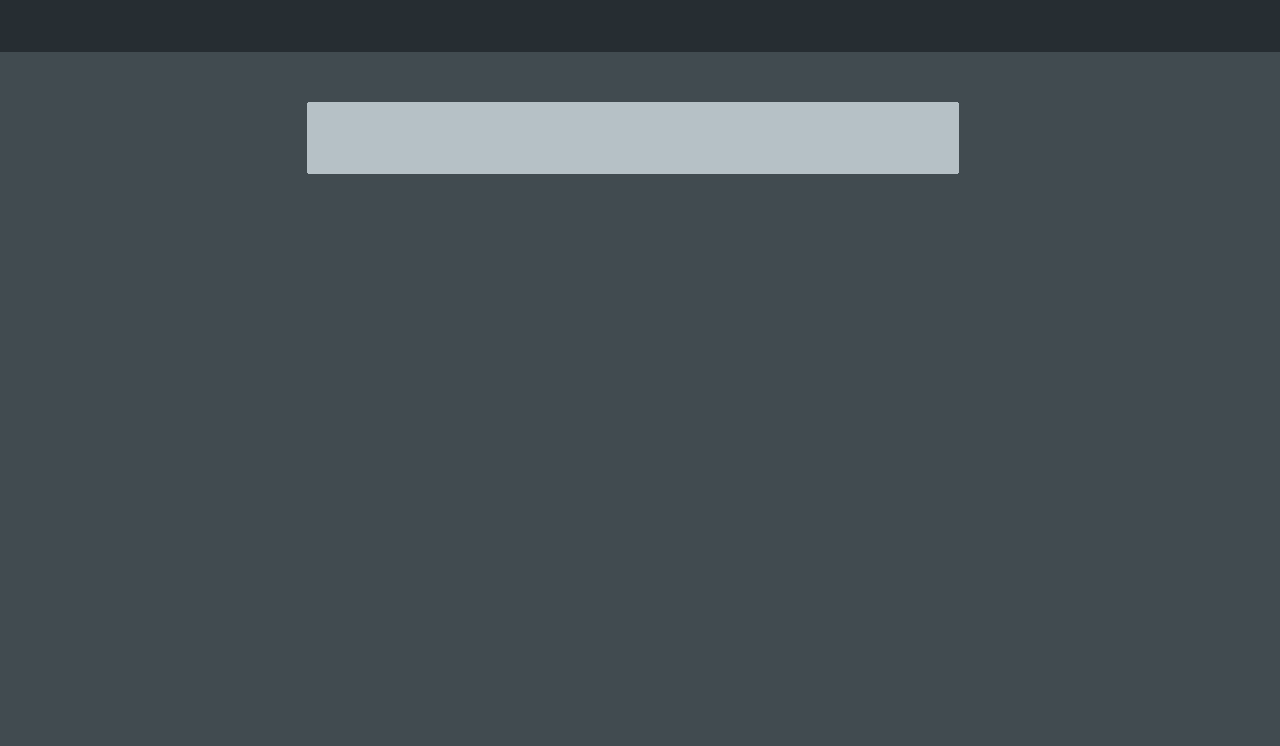
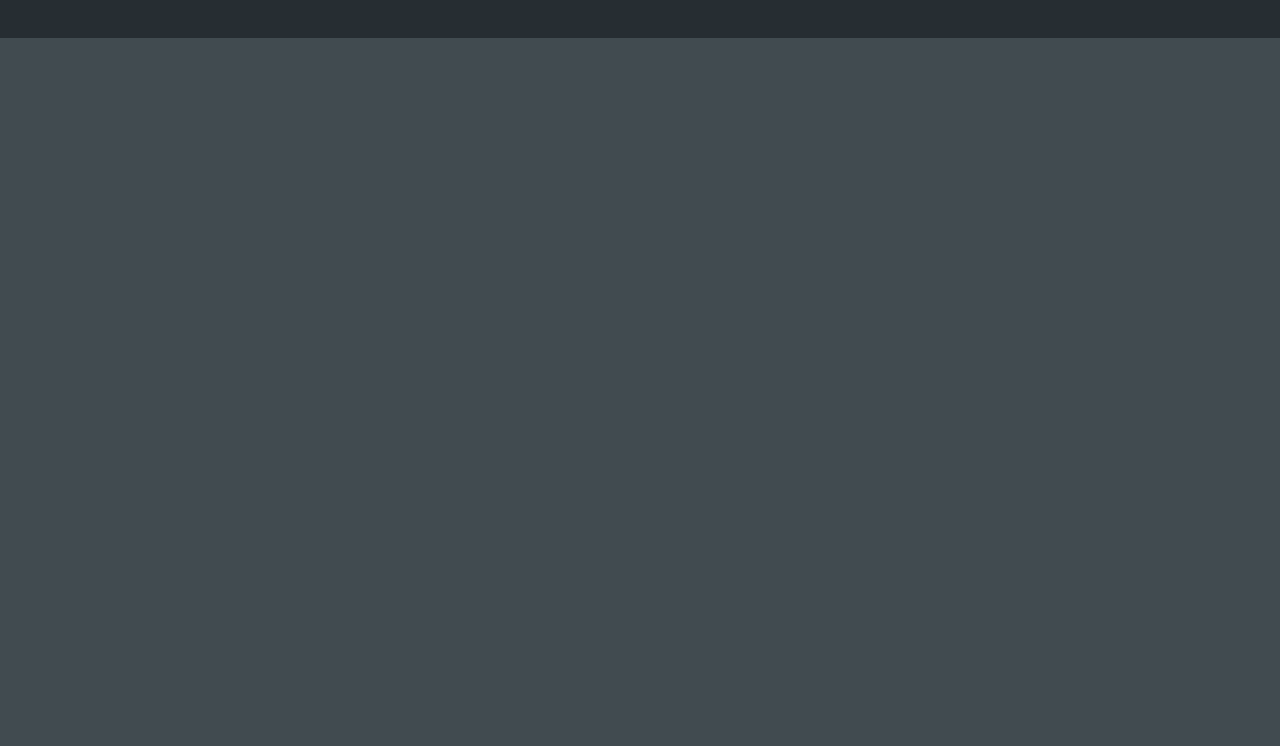
Get MIDI Channel working

Changed region(s): [[0.2188, 0.1233, 0.75, 0.2466], [0.0, 0.0308, 1.0, 0.0925]]

diff --git a/Juce/ScopeSync/Components/BCMComboBox.cpp b/Juce/ScopeSync/Components/BCMComboBox.cpp
@@ -27,10 +27,12 @@
  */
 
 #include "BCMComboBox.h"
+#include "../Core/ScopeSync.h"
 #include "../Core/ScopeSyncGUI.h"
 #include "../Properties/ComboBoxProperties.h"
 #include "../Core/Global.h"
 #include "../Parameters/BCMParameter.h"
+#include "../Parameters/BCMParameterController.h"
 
 BCMComboBox::BCMComboBox(String& name, ScopeSyncGUI& owner)
     : ComboBox(name), BCMParameterWidget(owner)
@@ -53,10 +55,13 @@ void BCMComboBox::applyProperties(ComboBoxProperties& props)
     setJustificationType(Justification(props.justificationFlags));
     setTextWhenNothingSelected(props.nothingSelectedText);
     setTextWhenNoChoicesAvailable(props.noChoicesText);
-    
-    String tooltip  = props.tooltip;
-    
-    setupMapping(Ids::comboBox, getName(), props.mappingParentType, props.mappingParent);
+
+	String tooltip = props.tooltip;
+
+	if (setupFixedComboBox(props))
+		return;
+	
+	setupMapping(Ids::comboBox, getName(), props.mappingParentType, props.mappingParent);
 
     if (mapsToParameter)
     {
@@ -66,29 +71,57 @@ void BCMComboBox::applyProperties(ComboBoxProperties& props)
 		parameter->mapToUIValue(parameterValue);
         parameterValue.addListener(this);
 
-		if (parameter->isDiscrete())
-		{
-			ValueTree parameterSettings;
-			parameter->getSettings(parameterSettings);
-            
-			tooltip = parameter->getFullDescription(true);
-
-			for (int i = 0; i < parameterSettings.getNumChildren(); i++)
-			{
-				ValueTree parameterSetting = parameterSettings.getChild(i);
-				String    settingName      = parameterSetting.getProperty(Ids::name, "__NO_NAME__");
-
-				addItem(settingName, i + 1);
-			}
-            
-			setSelectedItemIndex(roundToInt(parameterValue.getValue()), juce::dontSendNotification);
-		}
+		processParamSettings(tooltip);
     }
     
     setTooltip(tooltip);
 }
 
 const Identifier BCMComboBox::getComponentType() const { return Ids::comboBox; };
+
+bool BCMComboBox::setupFixedComboBox(ComboBoxProperties& props)
+{
+	String tooltip = props.tooltip;
+
+	BCMParameter* bcmParameter(scopeSyncGUI.getScopeSync().getParameterController()->getParameterByName(props.name));
+	setParameter(bcmParameter);
+
+	if (parameter != nullptr)
+	{
+		clear(juce::dontSendNotification);
+
+		parameter->mapToUIValue(parameterValue);
+		parameterValue.addListener(this);
+
+		processParamSettings(tooltip);
+
+		return true;
+	}
+	else
+		return false;
+
+}
+
+void BCMComboBox::processParamSettings(StringRef tooltip)
+{
+	if (parameter->isDiscrete())
+	{
+		ValueTree parameterSettings;
+		parameter->getSettings(parameterSettings);
+
+		tooltip = parameter->getFullDescription(true);
+
+		for (int i = 0; i < parameterSettings.getNumChildren(); i++)
+		{
+			ValueTree parameterSetting = parameterSettings.getChild(i);
+			String    settingName = parameterSetting.getProperty(Ids::name, "__NO_NAME__");
+
+			addItem(settingName, i + 1);
+		}
+
+		setSelectedItemIndex(roundToInt(parameterValue.getValue()), juce::dontSendNotification);
+	}
+}
 
 void BCMComboBox::mouseDown(const MouseEvent& event)
 {

diff --git a/Juce/ScopeSync/Components/BCMLookAndFeel.cpp b/Juce/ScopeSync/Components/BCMLookAndFeel.cpp
@@ -180,11 +180,12 @@ void BCMLookAndFeel::setupColourIds()
     textEditorColours.set("focusedoutlinecolourid",  TextEditor::focusedOutlineColourId);
     textEditorColours.set("shadowcolourid",          TextEditor::shadowColourId);
 
-    comboBoxColours.set("backgroundcolourid", ComboBox::backgroundColourId);
-    comboBoxColours.set("textcolourid",       ComboBox::textColourId);
-    comboBoxColours.set("outlinecolourid",    ComboBox::outlineColourId);
-    comboBoxColours.set("buttoncolourid",     ComboBox::buttonColourId);
-    comboBoxColours.set("arrowcolourid",      ComboBox::arrowColourId);
+    comboBoxColours.set("backgroundcolourid",     ComboBox::backgroundColourId);
+    comboBoxColours.set("textcolourid",           ComboBox::textColourId);
+    comboBoxColours.set("outlinecolourid",        ComboBox::outlineColourId);
+    comboBoxColours.set("buttoncolourid",         ComboBox::buttonColourId);
+    comboBoxColours.set("arrowcolourid",          ComboBox::arrowColourId);
+	comboBoxColours.set("focusedoutlinecolourid", ComboBox::focusedOutlineColourId);
 
     popupMenuColours.set("backgroundcolourid",            PopupMenu::backgroundColourId);
     popupMenuColours.set("textcolourid",                  PopupMenu::textColourId);

diff --git a/Juce/ScopeSync/Properties/ComboBoxProperties.cpp b/Juce/ScopeSync/Properties/ComboBoxProperties.cpp
@@ -69,7 +69,6 @@ void ComboBoxProperties::copyProperties(ComboBoxProperties& parentComboBoxProper
     fontStyleFlags      = parentComboBoxProperties.fontStyleFlags;
     justificationFlags  = parentComboBoxProperties.justificationFlags;
     nothingSelectedText = parentComboBoxProperties.nothingSelectedText;
-    items               = parentComboBoxProperties.items;
     noChoicesText       = parentComboBoxProperties.noChoicesText;
 };
 
@@ -86,10 +85,5 @@ void ComboBoxProperties::setValuesFromXML(XmlElement& comboBoxXML)
 
     XmlElement* justificationXml = comboBoxXML.getChildByName("justification");
     if (justificationXml != nullptr)
-        getJustificationFlagsFromXml(*justificationXml, justificationFlags);
-
-    forEachXmlChildElementWithTagName(comboBoxXML, child, "item")
-    {
-        items.add(child->getAllSubText());
-    }   
+        getJustificationFlagsFromXml(*justificationXml, justificationFlags); 
 }

diff --git a/Juce/ScopeSync/Parameters/BCMParameterController.cpp b/Juce/ScopeSync/Parameters/BCMParameterController.cpp
@@ -63,6 +63,30 @@ void BCMParameterController::addFixedScopeParameter(const String& name, const in
     tmpParameter.setProperty(Ids::scopeParamId, scopeParamId, nullptr);
 	tmpParameter.setProperty(Ids::scopeParamGroup, 0, nullptr);
 
+	if (name == "MIDI Channel")
+	{
+		// MIDI Channel is a Discrete parameter, with settings (1-16 + Omni)
+		tmpParameter.setProperty(Ids::valueType, 1, nullptr);
+
+		ValueTree tmpSettings(Ids::settings);
+		
+		for (int i = 0; i < 17; i++)
+		{
+			ValueTree tmpSetting(Ids::setting);
+
+			tmpSetting.setProperty(Ids::intValue, i, nullptr);
+
+			if (i < 16)
+				tmpSetting.setProperty(Ids::name, String(i + 1), nullptr);
+			else
+				tmpSetting.setProperty(Ids::name, "Omni", nullptr);
+
+			tmpSettings.addChild(tmpSetting, -1, nullptr);
+		}
+
+		tmpParameter.addChild(tmpSettings, -1, nullptr);
+	}
+
     addParameter(tmpParameter, true);
 }
 

diff --git a/Juce/ScopeSync/Components/BCMComboBox.h b/Juce/ScopeSync/Components/BCMComboBox.h
@@ -44,7 +44,7 @@ public:
 
     void applyProperties(ComboBoxProperties& props);
     const Identifier getComponentType() const override;
-
+		
     void valueChanged(Value& value) override;
 
     float                fontHeight;     // Height of font for BCMComboBox's current value (use PopupMenu LookAndFeel for other fonts)
@@ -53,7 +53,9 @@ public:
 private:
     Value parameterValue;  // Maintains a link to a mapped parameter's UI value
     
-    void mouseDown(const MouseEvent& event) override;
+	bool setupFixedComboBox(ComboBoxProperties& props);
+	void processParamSettings(StringRef tooltip);
+	void mouseDown(const MouseEvent& event) override;
     
     JUCE_DECLARE_NON_COPYABLE_WITH_LEAK_DETECTOR(BCMComboBox);
 };

diff --git a/Juce/ScopeSync/Core/ScopeSync.cpp b/Juce/ScopeSync/Core/ScopeSync.cpp
@@ -356,7 +356,8 @@ void ScopeSync::applyConfiguration(bool storeCurrentValues)
 
 	configurationName = configuration->getDocumentTitle();
 #ifdef __DLL_EFFECT__
-	scopeFX->setConfigUID(configuration->getConfigurationUID());
+	configurationID = configuration->getConfigurationUID();
+	scopeFX->setConfigUID(configurationID.getValue());
 	startTimer(200);
 #endif // __DLL_EFFECT__
 }

diff --git a/Juce/ScopeSync/Components/BCMSlider.cpp b/Juce/ScopeSync/Components/BCMSlider.cpp
@@ -136,7 +136,9 @@ bool BCMSlider::setupFixedSlider(SliderProperties& props)
 {	
 	BCMParameter* bcmParameter(scopeSync.getParameterController()->getParameterByName(props.name));
 
-	if (bcmParameter != nullptr)
+	setParameter(bcmParameter);
+
+	if (parameter != nullptr)
 	{
 		fixed = true;
 		setParameter(bcmParameter);

diff --git a/Juce/ScopeSync/Properties/ComboBoxProperties.h b/Juce/ScopeSync/Properties/ComboBoxProperties.h
@@ -48,7 +48,6 @@ public:
     bool                 editableText;
     String               nothingSelectedText;
     String               noChoicesText;
-    StringArray          items;
     String               tooltip;
     float                fontHeight;
     Font::FontStyleFlags fontStyleFlags;

diff --git a/Juce/ScopeSync/Windows/UserSettings.cpp b/Juce/ScopeSync/Windows/UserSettings.cpp
@@ -767,7 +767,7 @@ void UserSettings::hideFileLocationsWindow()
         updateFileLocations(fileLocations);
     }
 
-    fileLocationEditorWindow = nullptr;
+    fileLocationEditorWindow.reset();
 }
 
 void UserSettings::showPresetManagerWindow(const String& filePath, int posX, int posY)
